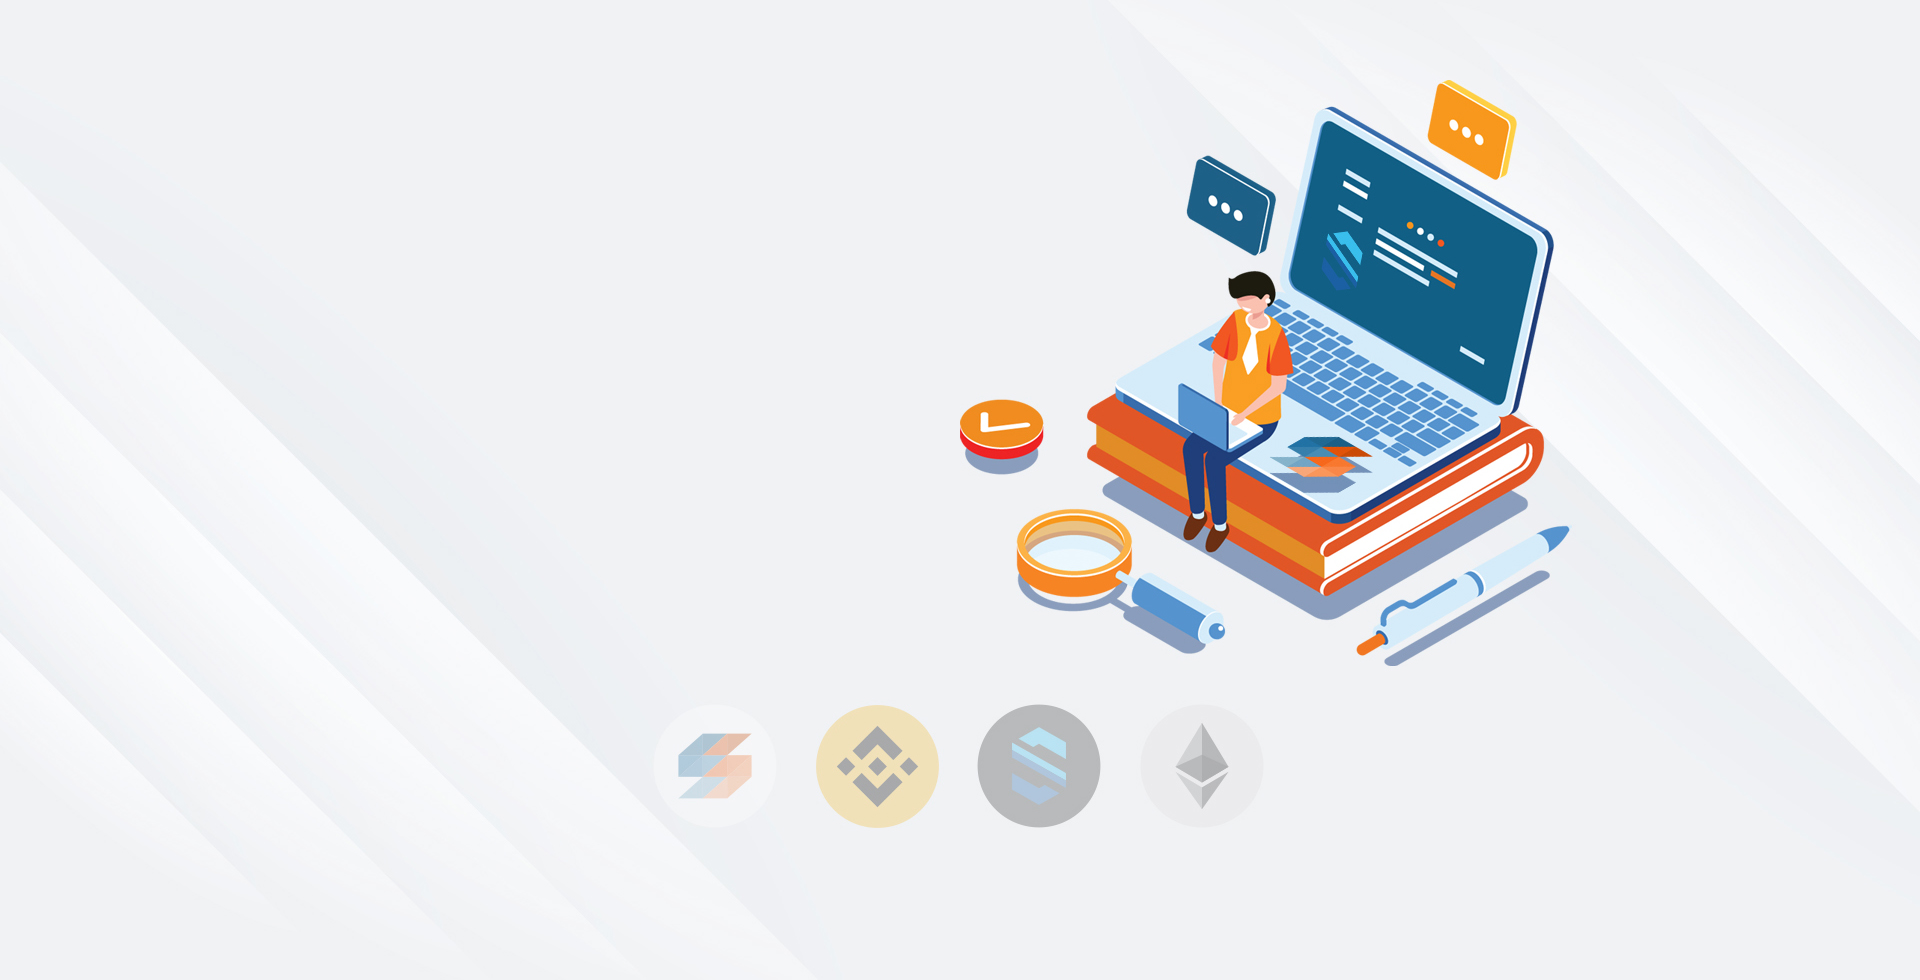
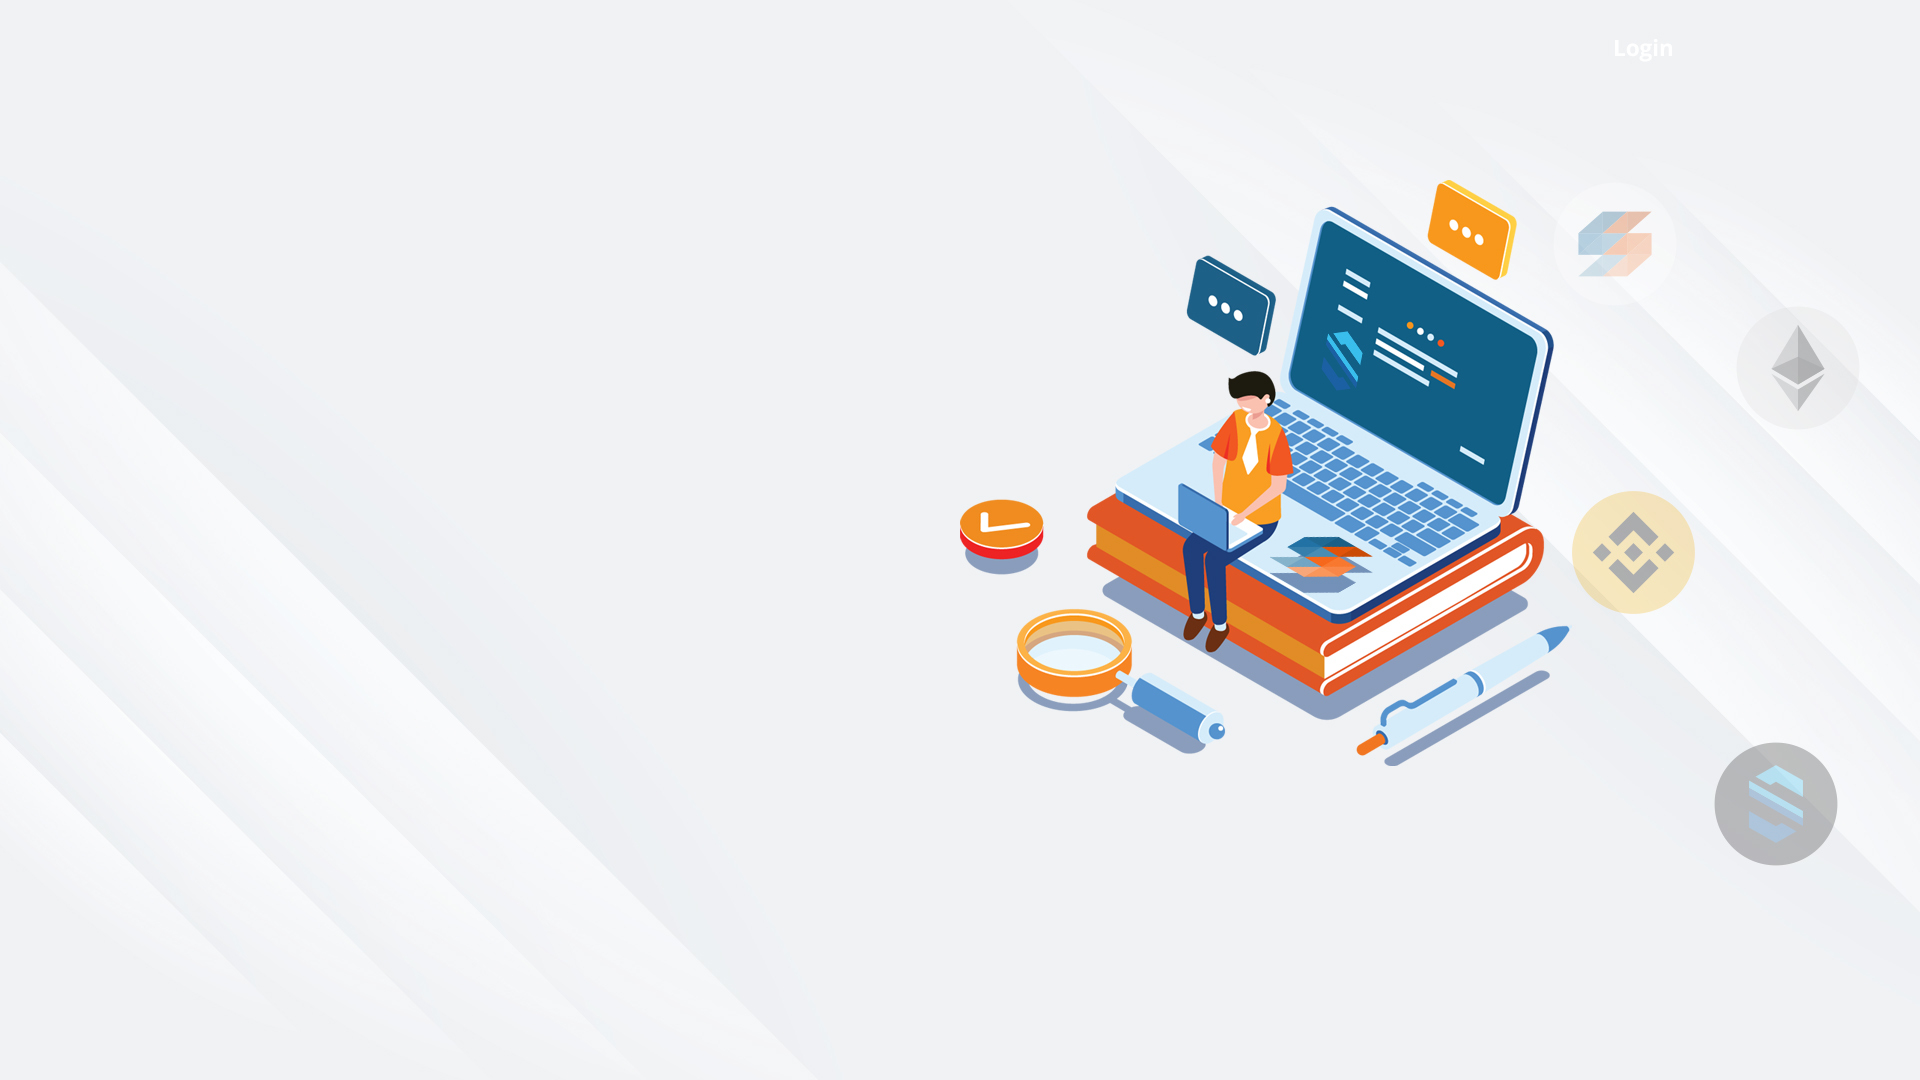
Little margin tweaks, Fix issue 44 & 45

diff --git a/theme/moove/scss/moove/_frontpage.scss b/theme/moove/scss/moove/_frontpage.scss
@@ -116,17 +116,18 @@
     }
     
     #page-header {
-        background-position: center;
+        background: url("/theme/moove/pix/headerimg.jpg") !important;
+        background-position: center !important;
         background-repeat: no-repeat;
         background-color: #fff;
         background-attachment: fixed;
         background-size: cover;
-        min-height: 100vh;
+        min-height: 100vh !important;
     }
     
     #page-marketing {
         min-height: 724px;
-        padding: 0 4rem;
+        // padding: 0 4rem;
     }
     
     #page-guides {
@@ -136,7 +137,7 @@
 
     #page-endorsement {
         min-height: 690px;
-        padding: 0 4rem;
+        // padding: 0 4rem;
     }  
 
     #page-testimonial {
@@ -146,7 +147,7 @@
     
     #page-course {
         min-height: 344px;
-        padding: 0 4rem;
+        // padding: 0 4rem;
     }
     .primary-btn{
         color: #fff;
